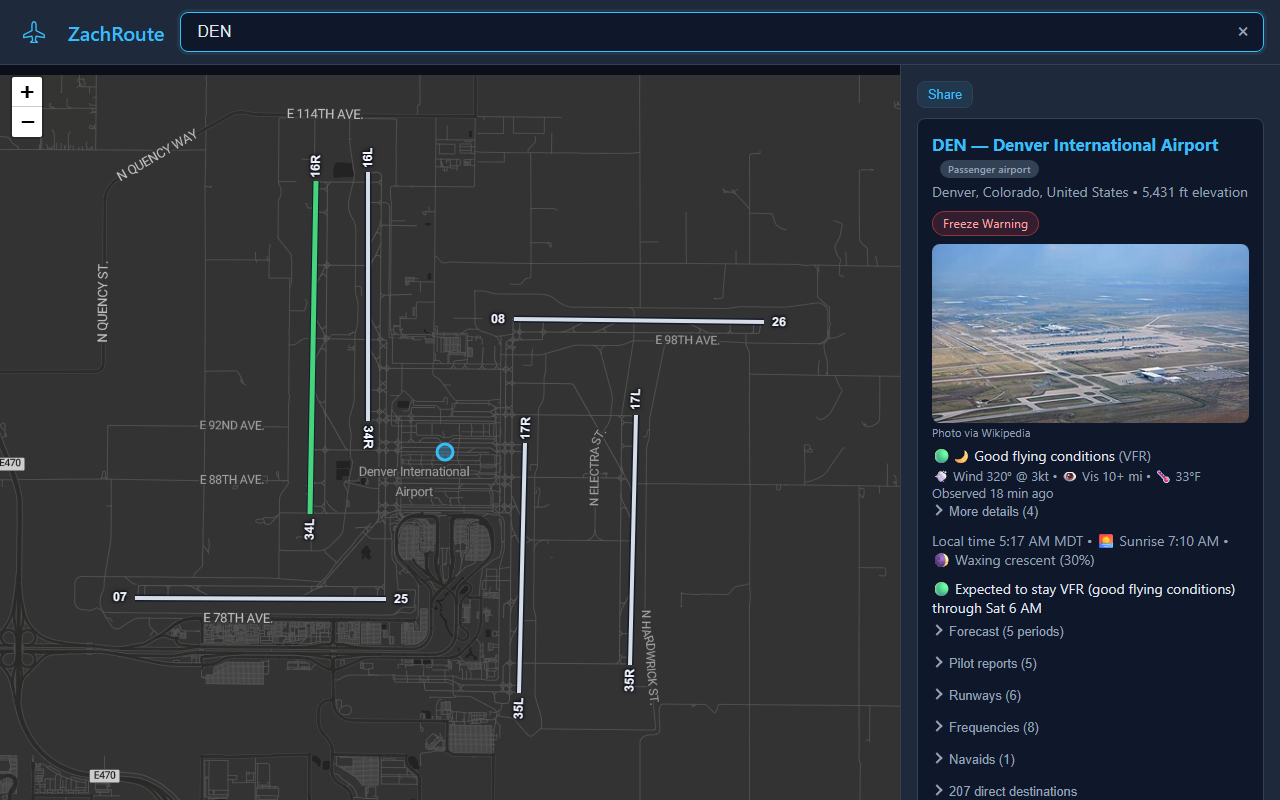
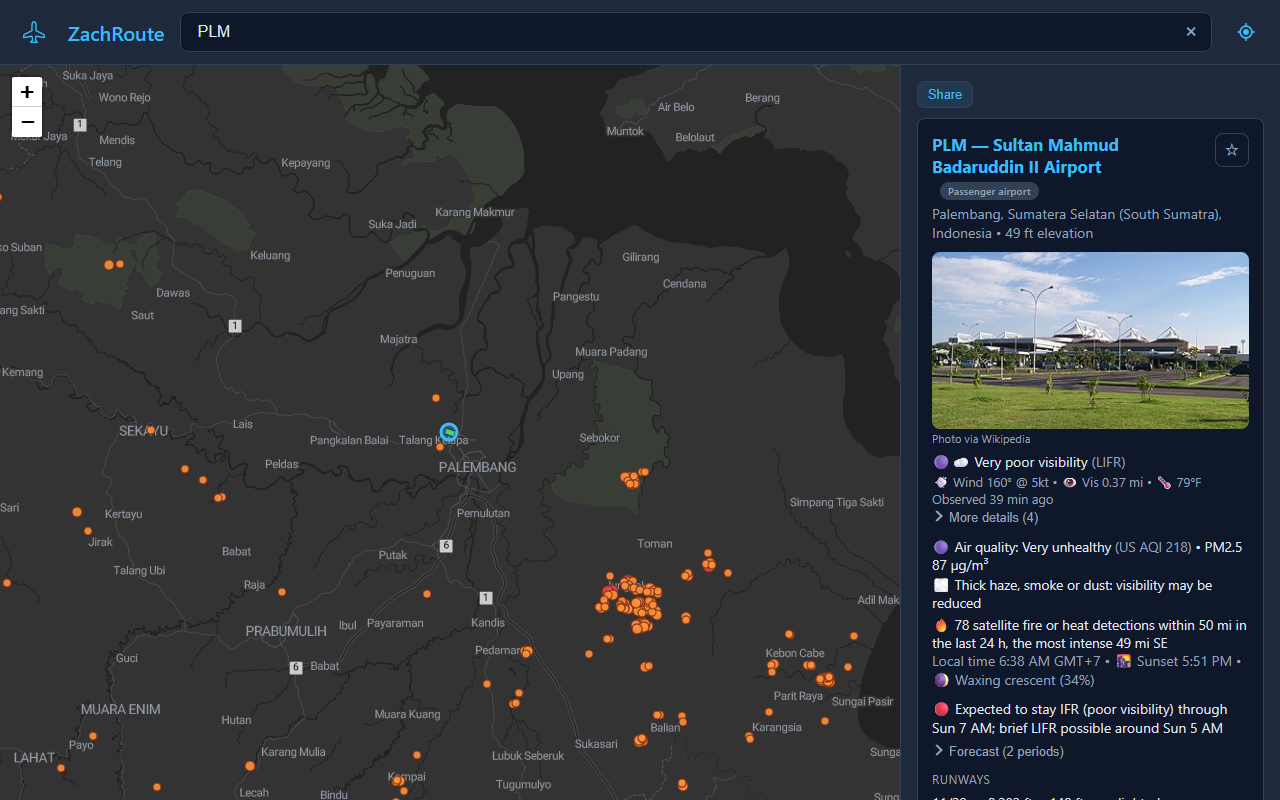
docs: data sources and freshness, new screenshots, About sources (#27)
- README: pitch and features regrouped around the worldwide data
  (hazards and air near an airport, route advisories, map layers); a
  "Data sources, freshness and licenses" table with how often each
  source updates, how much the app's caching adds and its license,
  from measurements on 2026-10-16; test notes for the new fixtures.
- Screenshots retaken from the running app: Guam to Tokyo through
  Typhoon Champi's cone, Palembang with smoke and fires, Jakarta to
  Bali crossing Mt Semeru's ash on a phone, and the dust layer over
  Africa and Asia. scripts/capture-screenshots.mjs reproduces them
  (headless Chrome or Edge over the DevTools protocol, fresh profile,
  no dependencies).
- About: describes the worldwide coverage and lists every data source
  with its cadence and required credits (including Copernicus CAMS for
  air quality); the panel now scrolls on short screens.

diff --git a/src/index.html b/src/index.html
@@ -135,11 +135,21 @@
       <div class="modal-panel">
         <button type="button" id="about-close" class="icon-btn modal-close" aria-label="Close">✕</button>
         <h2>ZachRoute</h2>
-        <p>Instant, offline-capable airport lookup and route planner. Search by code, city or name, then see live weather and a plain-English forecast, runways and approaches, delays and hazards. It's a companion app to my <a href="https://theflightwall.com" target="_blank" rel="noopener">FlightWall</a> setup.</p>
+        <p>Instant, offline-capable airport lookup and route planner for anywhere in the world. Search by code, city or name, then see live weather and a plain-English forecast, runways and approaches, delays, and hazards from thunderstorms and turbulence to volcanic ash, tropical cyclones, fires, smoke and dust. It's a companion app to my <a href="https://theflightwall.com" target="_blank" rel="noopener">FlightWall</a> setup.</p>
         <p class="about-version">Version <strong id="about-version"></strong> &middot; Built <span id="about-build"></span></p>
         <p>Designed and built by <a href="https://github.com/ZachGSnow/" target="_blank" rel="noopener">Zach Snow</a> &middot; &copy; 2026</p>
         <p class="about-disclaimer">For information only. Not for navigation or flight planning. Always use official aviation sources.</p>
-        <p class="muted">Data: <a href="https://ourairports.com" target="_blank" rel="noopener">OurAirports</a> (public domain), <a href="https://www.wikipedia.org" target="_blank" rel="noopener">Wikipedia</a> (CC BY-SA), <a href="https://aviationweather.gov" target="_blank" rel="noopener">Aviation Weather Center</a>, <a href="https://nasstatus.faa.gov" target="_blank" rel="noopener">FAA</a>, <a href="https://www.transtats.bts.gov" target="_blank" rel="noopener">U.S. DOT Bureau of Transportation Statistics</a> (airlines and US routes), <a href="https://www.weather.gov" target="_blank" rel="noopener">National Weather Service</a>, <a href="https://open-meteo.com" target="_blank" rel="noopener">Open-Meteo</a>, <a href="https://openflights.org" target="_blank" rel="noopener">OpenFlights</a>, and the World Magnetic Model.</p>
+        <p class="about-sources-title">Data sources</p>
+        <ul class="about-sources">
+          <li>Weather, forecasts, pilot reports, AIRMETs and SIGMETs worldwide: <a href="https://aviationweather.gov" target="_blank" rel="noopener">Aviation Weather Center</a> (updated within minutes)</li>
+          <li>US delays: <a href="https://nasstatus.faa.gov" target="_blank" rel="noopener">FAA</a>; US weather alerts: <a href="https://www.weather.gov" target="_blank" rel="noopener">National Weather Service</a></li>
+          <li>Tropical cyclones: <a href="https://www.gdacs.org" target="_blank" rel="noopener">GDACS</a> (UN / European Commission), from the official advisories, every 6 hours</li>
+          <li>Fires: <a href="https://firms.modaps.eosdis.nasa.gov" target="_blank" rel="noopener">NASA FIRMS</a> (last 24 hours); dust and smoke: <a href="https://nasa-gibs.github.io/gibs-api-docs/" target="_blank" rel="noopener">NASA GIBS</a>, OMPS on NOAA-20 (daily)</li>
+          <li>Air quality and winds aloft: <a href="https://open-meteo.com" target="_blank" rel="noopener">Open-Meteo</a> (CC BY 4.0), model estimates; air quality contains Copernicus Atmosphere Monitoring Service information</li>
+          <li>Airports and runways: <a href="https://ourairports.com" target="_blank" rel="noopener">OurAirports</a> (public domain); airlines and US routes: <a href="https://www.transtats.bts.gov" target="_blank" rel="noopener">U.S. DOT BTS</a>; other routes: <a href="https://openflights.org" target="_blank" rel="noopener">OpenFlights</a> (ODbL, 2017)</li>
+          <li>Airport history and photos: <a href="https://www.wikipedia.org" target="_blank" rel="noopener">Wikipedia</a> (CC BY-SA); magnetic variation: World Magnetic Model; map: <a href="https://stadiamaps.com" target="_blank" rel="noopener">Stadia Maps</a>, OpenMapTiles, OpenStreetMap</li>
+        </ul>
+        <p class="muted">An airport card loads its data when you search and does not refresh while open; search again for newer data.</p>
       </div>
     </div>
 

diff --git a/src/styles/main.css b/src/styles/main.css
@@ -209,7 +209,9 @@ body {
   border: 1px solid var(--border);
   border-radius: 12px;
   padding: 24px;
-  max-width: 420px;
+  max-width: 460px;
+  max-height: calc(100dvh - 32px);
+  overflow-y: auto;
   margin: 16px;
 }
 
@@ -899,6 +901,22 @@ body {
 .about-version {
   font-size: 0.85rem;
   color: var(--accent);
+}
+
+.about-sources-title {
+  margin-bottom: 4px !important;
+  font-weight: 600;
+}
+
+.about-sources {
+  margin: 0 0 10px 18px;
+  font-size: 0.8rem;
+  line-height: 1.45;
+  color: var(--text-muted);
+}
+
+.about-sources li {
+  margin-bottom: 4px;
 }
 
 .about-disclaimer {

diff --git a/README.md b/README.md
@@ -1,15 +1,17 @@
 # ZachRoute
 
-**An offline-first airport and route map for your phone: type a code or a city, get live weather, a plain-English forecast, runways, delays and hazards, and the route between two airports drawn the way it is actually flown.**
+**An offline-first airport and route map for your phone, for anywhere in the world: type a code or a city, get live weather, a plain-English forecast, runways, delays and hazards (thunderstorms, volcanic ash, tropical cyclones, smoke and dust), and the route between two airports drawn the way it is actually flown.**
 
 [![CI](https://github.com/ZachGSnow/zachroute/actions/workflows/ci.yml/badge.svg)](https://github.com/ZachGSnow/zachroute/actions/workflows/ci.yml)
 [![License: MIT](https://img.shields.io/badge/License-MIT-blue.svg)](LICENSE)
 
-![Route from ORD to DEN: the line is colored by the cruise headwind, a turbulence SIGMET it crosses is outlined, and pilot reports near the route are listed](docs/screenshot-route.png)
+![Guam to Tokyo Narita: the route passes through Typhoon Champi's forecast cone, drawn with its past and forecast track, and the tropical cyclone SIGMETs it crosses are listed](docs/screenshot-route.png)
 
-| Airport view: runways with numbers, the wind-favored runway in green | On a phone: ORD to LHR |
+| Airport view: Palembang, Indonesia, with smoke from nearby fires | On a phone: Jakarta to Bali crosses volcanic ash |
 |---|---|
-| ![Denver International with its runways outlined and the forecast, pilot reports and runway sections of the card](docs/screenshot-airport.png) | ![Phone layout of the ORD to LHR route with a tailwind-colored great circle](docs/screenshot-mobile.png) |
+| ![Palembang airport card: very poor visibility, unhealthy air quality with a haze note, and satellite fire detections around the airport on the map](docs/screenshot-airport.png) | ![Phone layout of the Jakarta to Bali route with the volcanic ash warning for Mt Semeru](docs/screenshot-mobile.png) |
+
+![The dust and smoke layer over Africa and the Middle East, with a Saharan dust plume over West Africa](docs/screenshot-dust.png)
 
 ## Why
 
@@ -36,22 +38,24 @@ display: see a plane overhead, look up where it is going.
 
 **Airport card**
 - Current conditions from the latest METAR in plain English, with a "More details" section
-  (dewpoint and fog risk, ceiling, altimeter, density altitude, wind as the tower states it).
+  (dewpoint and fog risk, ceiling, altimeter or QNH, density altitude, wind as the tower states it).
 - Forecast (TAF) decoded into an outlook ("Conditions drop to MVFR around Fri 6 AM") and a period list.
 - Recent pilot reports of turbulence or icing nearby, in plain English.
-- Air quality worldwide (US AQI, or the European AQI at European airports) with PM2.5, a note when
-  smoke, dust or haze may reduce visibility, and a heads-up when it is forecast to get worse in the
-  next 12 hours.
-- Satellite fire and heat detections within 50 miles in the last 24 hours (worldwide), with the
-  most intense one's distance and direction.
-- FAA ground stops, ground delay programs and departure/arrival delays, plus active National
-  Weather Service alerts (US).
-- Volcanic ash over or within 100 miles of the airport, anywhere in the world (from SIGMETs).
-- Tropical cyclones (hurricanes, typhoons, cyclones in every ocean) within 300 miles, or whose
-  forecast cone covers the airport.
 - Runways with dimensions and surface, the wind-favored runway with headwind/crosswind
   components, frequencies, navaids, local time, sunrise or sunset, airport photo and history.
 - Nonstop destinations with the airlines that fly them today (US routes).
+
+**Hazards and air near an airport** (worldwide unless noted)
+- Volcanic ash over or within 100 miles of the airport, from international SIGMETs.
+- Tropical cyclones (hurricanes, typhoons, cyclones in every ocean) within 300 miles, or whose
+  forecast cone covers the airport, even when the storm is still far away.
+- Air quality: the US AQI, or the European AQI at European airports, with PM2.5, a note when
+  smoke, dust or haze may reduce visibility, and a heads-up when it is forecast to get worse in the
+  next 12 hours.
+- Satellite fire and heat detections within 50 miles in the last 24 hours, with the most intense
+  one's distance and direction.
+- US only: FAA ground stops, ground delay programs and departure/arrival delays, and active
+  National Weather Service alerts.
 
 **Airports near me**: the location button lists the 5 closest airports with scheduled-service codes,
 with distance, direction and current flight category, and shows them on the map. The position is
@@ -64,18 +68,18 @@ used once and not stored; denying permission just shows a message.
   and is colored by headwind or tailwind.
 - When there is no nonstop, one-stop and two-stop connections are drawn and listed; the selected
   itinerary shows per-leg distance and time.
-- Weather advisories the route passes through and pilot reports near it are listed and drawn on
-  the map: US AIRMETs and SIGMETs, plus international SIGMETs worldwide (thunderstorms,
-  turbulence, icing, volcanic ash, tropical cyclones), each with the FIR that issued it.
-  Volcanic ash on a route gets its own warning at the top of the list.
+- Weather advisories the route passes through are listed and drawn: US AIRMETs and SIGMETs, and
+  international SIGMETs worldwide (thunderstorms, turbulence, icing, volcanic ash, tropical
+  cyclones), each with the flight information region (FIR) that issued it. Volcanic ash gets its
+  own warning at the top, since flights avoid it at every altitude.
 - Tropical cyclones the route passes within 150 miles of, or through the forecast cone of.
+- Pilot reports of turbulence or icing near the route.
 
 **Map layers** (settings menu): nonstop connections, airport size layers, weather stations
 (wind arrows, with a ring only when conditions are below VFR), pilot reports, weather hazards,
-tropical cyclones worldwide (track, forecast track and uncertainty cone),
-fires detected by satellite in the last 24 hours,
-dust and smoke from space (daily, worldwide),
-day/night shading, approach distance ticks, and runway outlines with runway numbers when zoomed in.
+tropical cyclones (track, forecast track and uncertainty cone), fires detected by satellite in the
+last 24 hours, dust and smoke from space (the latest daily pass), day/night shading, approach
+distance ticks, and runway outlines with runway numbers when zoomed in.
 
 **Phone layout**: the results panel is a bottom sheet. Drag its handle between a one-line peek
 (map almost full screen), half (the default for a new result) and full; a tap toggles peek and half.
@@ -153,38 +157,51 @@ npm run typecheck
 
 Every integration is tested against a real response captured from the source on 2026-10-16
 (`test/fixtures/`): aviationweather.gov METAR, TAF, PIREP (by airport and by area), METAR by
-area, AIRMET/SIGMET and international SIGMET; the FAA NAS status XML; NWS alerts; Open-Meteo winds aloft; Wikipedia
-search and summaries; OurAirports CSVs; OpenFlights `routes.dat`; and the US DOT on-time CSV.
-Each test was confirmed to fail when its parser is deliberately broken. Writing these tests
-found a real bug: the FAA parser's `<Delay` pattern also matched `<Delay_type>`, so general
-arrival/departure delays were never parsed.
+area, AIRMET/SIGMET and international SIGMET; the FAA NAS status XML; NWS alerts; GDACS tropical
+cyclones; NASA FIRMS fire detections; Open-Meteo winds aloft and air quality; Wikipedia search and
+summaries; OurAirports CSVs; OpenFlights `routes.dat`; and the US DOT on-time CSV. Each test was
+confirmed to fail when its parser is deliberately broken. Writing these tests found real bugs: the
+FAA parser's `<Delay` pattern also matched `<Delay_type>`, so general arrival/departure delays
+were never parsed; and the international SIGMET feed lists some SIGMETs twice.
 
 Not verified against real data: the FAA ground-stop XML block (no ground stop was active when
 the fixtures were captured; the parser follows the published `AirportStatus.dtd` element names),
-and the map UI itself, which has no automated browser tests and was checked by hand. Stadia
-domain authentication was checked by HTTP status (200 from the registered domain, 401 otherwise).
+and the map UI itself, which has no automated browser tests and was checked by hand.
+Stadia domain authentication was checked by HTTP status (200 from the registered domain, 401
+otherwise).
 
-## Data sources and licenses
+The README screenshots come from the running app: `node scripts/capture-screenshots.mjs` drives
+a local Chrome or Edge in headless mode against `npx wrangler pages dev dist` and writes
+`docs/screenshot-*.png`.
 
-The code is MIT licensed. The data it uses keeps its own terms:
+## Data sources, freshness and licenses
 
-| Data | Source | License |
-|---|---|---|
-| Airports, runways, frequencies, navaids | [OurAirports](https://ourairports.com/data/) | Public domain |
-| Current US routes and airlines | [US DOT Bureau of Transportation Statistics](https://www.transtats.bts.gov) on-time data | Public domain (US government) |
-| International routes (`src/data/connections.json`, partly) | [OpenFlights](https://openflights.org/data.php) `routes.dat` | [ODbL 1.0](https://opendatacommons.org/licenses/odbl/1-0/) |
-| Airport history text (`scripts/seed_lore.json`) and photos | [Wikipedia](https://en.wikipedia.org) | [CC BY-SA 4.0](https://creativecommons.org/licenses/by-sa/4.0/) |
-| Weather, forecasts, pilot reports, advisories | [Aviation Weather Center](https://aviationweather.gov) | Public domain (US government) |
-| Delay programs | [FAA NAS Status](https://nasstatus.faa.gov) | Public domain (US government) |
-| Weather alerts | [National Weather Service](https://www.weather.gov) | Public domain (US government) |
-| Tropical cyclones (positions, tracks, forecast cones, from NHC, JTWC and other agencies) | [GDACS](https://www.gdacs.org), the UN / European Commission Global Disaster Alert and Coordination System | Free to use; provided as is, for information only (credited in the app) |
-| Fire and heat detections (MODIS, last 24 hours) | [NASA FIRMS](https://firms.modaps.eosdis.nasa.gov) | Free and open (NASA); credited in the app |
-| Dust and smoke map layer (OMPS aerosol index, NOAA-20) | [NASA GIBS](https://nasa-gibs.github.io/gibs-api-docs/) | Free and open (NASA); credited on the map |
-| Winds aloft, air quality (Copernicus CAMS models) | [Open-Meteo](https://open-meteo.com) | CC BY 4.0, free for non-commercial use |
-| Map tiles | [Stadia Maps](https://stadiamaps.com), OpenMapTiles, OpenStreetMap | Per provider terms |
+The code is MIT licensed. The data it uses keeps its own terms. Freshness was measured on
+2026-10-16; "In the app" is the most the app's own caching adds on top of the source.
 
-OpenFlights' route file has not been updated since 2017, so it is only used for routes outside
-the US. For information only: this app is not for navigation or flight planning.
+| Data | Source | Updates at the source | In the app | License |
+|---|---|---|---|---|
+| Current weather (METAR) | [Aviation Weather Center](https://aviationweather.gov) | Hourly, plus special reports when conditions change | Up to 10 min | Public domain (US government) |
+| Forecasts (TAF) | Aviation Weather Center | Every 6 hours (3 in some countries), plus amendments | Up to 15 min | Public domain (US government) |
+| Pilot reports | Aviation Weather Center | As pilots file them; the last 3 hours are shown | Up to 5 min | Public domain (US government) |
+| AIRMETs, SIGMETs, international SIGMETs | Aviation Weather Center | AIRMETs every 6 hours; SIGMETs when issued, valid up to 4 hours (6 for ash and cyclones) | Up to 5 min; the map layer redraws every 5 min | Public domain (US government) |
+| Delay programs (US) | [FAA NAS Status](https://nasstatus.faa.gov) | Continuously | Up to 5 min | Public domain (US government) |
+| Weather alerts (US) | [National Weather Service](https://www.weather.gov) | Real time | Up to 5 min | Public domain (US government) |
+| Tropical cyclones (from NHC, JTWC and other agencies) | [GDACS](https://www.gdacs.org), the UN / European Commission Global Disaster Alert and Coordination System | Each storm's advisory every 6 hours, republished by GDACS 1-6 hours later (storms were 5-14 hours past their advisory time when measured) | Up to 30 min | Free to use; provided as is, for information only (credited in the app) |
+| Air quality (Copernicus CAMS models) | [Open-Meteo](https://open-meteo.com) | Hourly model values from model runs twice a day: estimates, not station measurements | Up to 30 min | CC BY 4.0, free for non-commercial use; contains Copernicus Atmosphere Monitoring Service information |
+| Winds aloft | Open-Meteo | Hourly model values | Up to 15 min | CC BY 4.0, free for non-commercial use |
+| Fire and heat detections (MODIS) | [NASA FIRMS](https://firms.modaps.eosdis.nasa.gov) | A few satellite passes per place per day, published about 3 hours later; the app keeps the last 24 hours | Up to 30 min | Free and open (NASA); credited in the app |
+| Dust and smoke layer (OMPS aerosol index, NOAA-20) | [NASA GIBS](https://nasa-gibs.github.io/gibs-api-docs/) | One pass per place per day, around 13:30 local time; the app shows today's pass where it has happened and yesterday's elsewhere | Redraws hourly | Free and open (NASA); credited on the map |
+| Airport history text and photos | [Wikipedia](https://en.wikipedia.org) | As edited | Up to 7 days | [CC BY-SA 4.0](https://creativecommons.org/licenses/by-sa/4.0/) |
+| Airports, runways, frequencies, navaids | [OurAirports](https://ourairports.com/data/) | Nightly | When you run `npm run data` | Public domain |
+| Current US routes and airlines | [US DOT Bureau of Transportation Statistics](https://www.transtats.bts.gov) on-time data | Monthly, about 3 months behind | When you run `npm run data` | Public domain (US government) |
+| International routes | [OpenFlights](https://openflights.org/data.php) `routes.dat` | Not updated since 2017 | When you run `npm run data` | [ODbL 1.0](https://opendatacommons.org/licenses/odbl/1-0/) |
+| Map tiles | [Stadia Maps](https://stadiamaps.com), OpenMapTiles, OpenStreetMap | Per provider | Not cached | Per provider terms |
+
+An airport card loads its data when you search and does not refresh while it is open; search
+again for newer data. The last weather and history seen for an airport stay available offline.
+OpenFlights' route file is old, so it is only used for routes outside the US. For information
+only: this app is not for navigation or flight planning.
 
 ## License
 

diff --git a/ARCHITECTURE.md b/ARCHITECTURE.md
@@ -40,7 +40,7 @@ browser (src/ts) <--------------------------------------+
 | `src/ts/connections.ts`, `carriers.ts` | Nonstop topology, one/two-stop search, airlines per route |
 | `functions/api/*.ts` | `weather`, `taf`, `pireps`, `metar-bbox`, `airsigmet`, `cyclones`, `fires`, `faa-status`, `lore` |
 | `shared/userAgent.ts` | User-Agent for upstream calls, built from `package.json` |
-| `scripts/` | Data pipeline (below) |
+| `scripts/` | Data pipeline (below), and `capture-screenshots.mjs`, which captures the README screenshots from the running app with headless Chrome or Edge |
 
 ## Data pipeline (build time)
 
